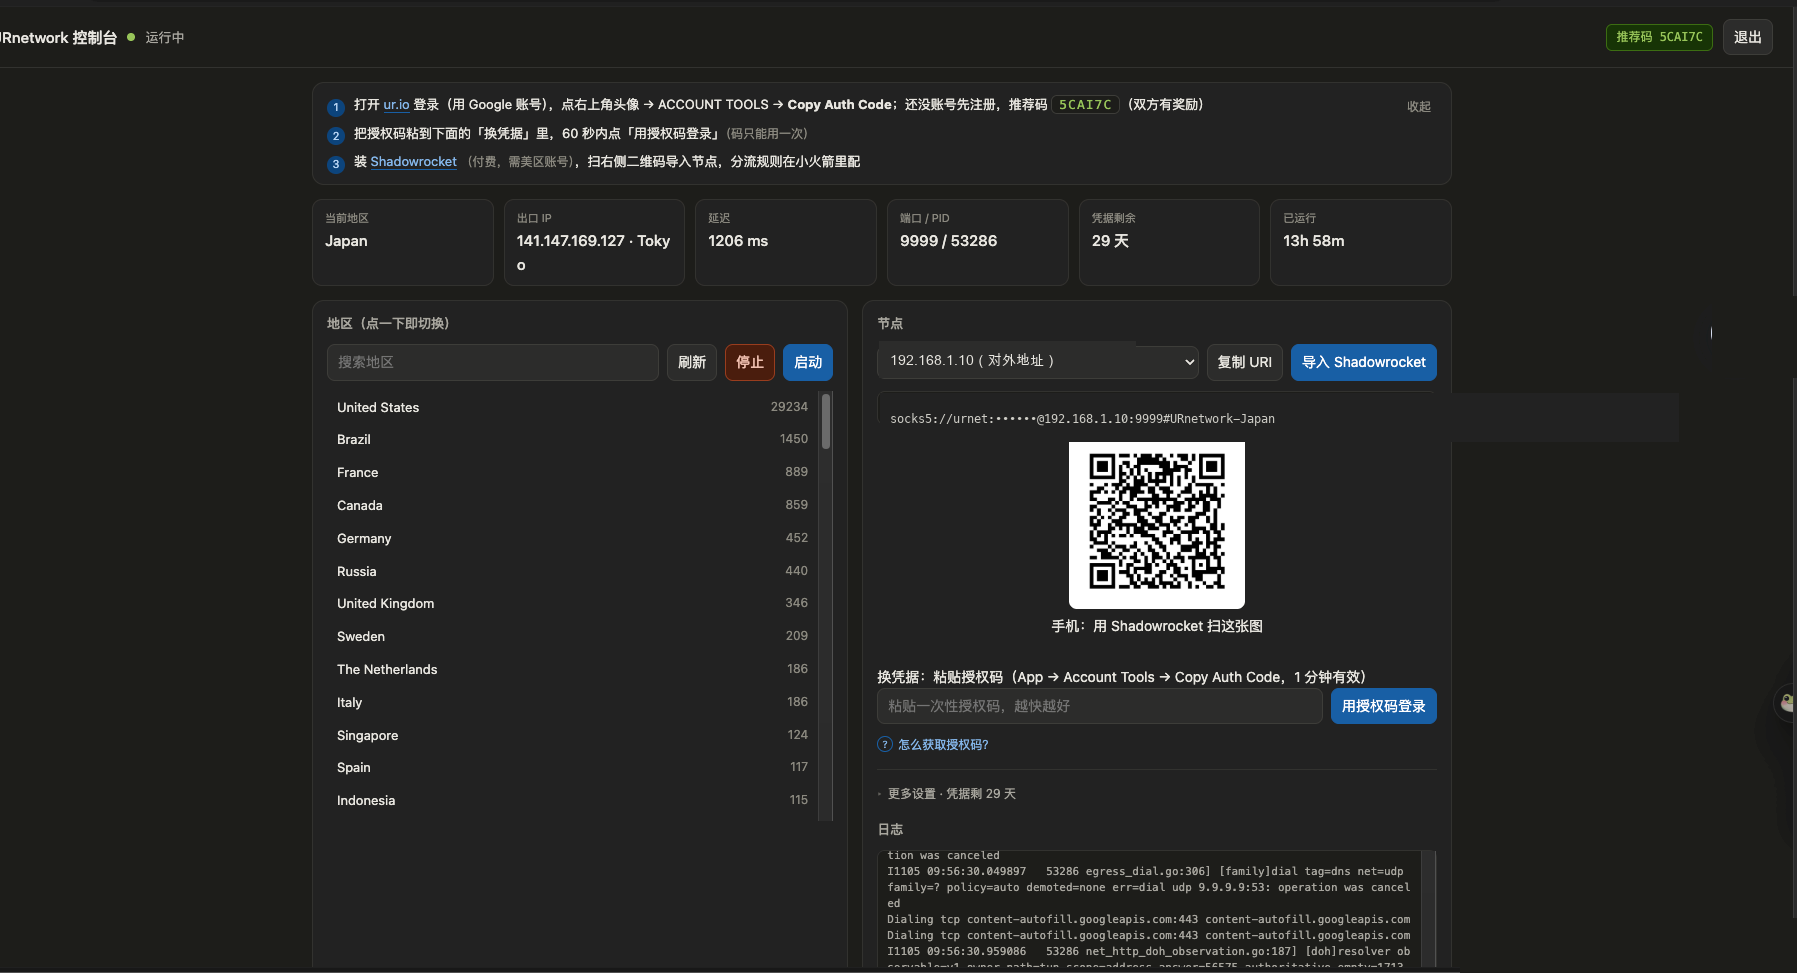
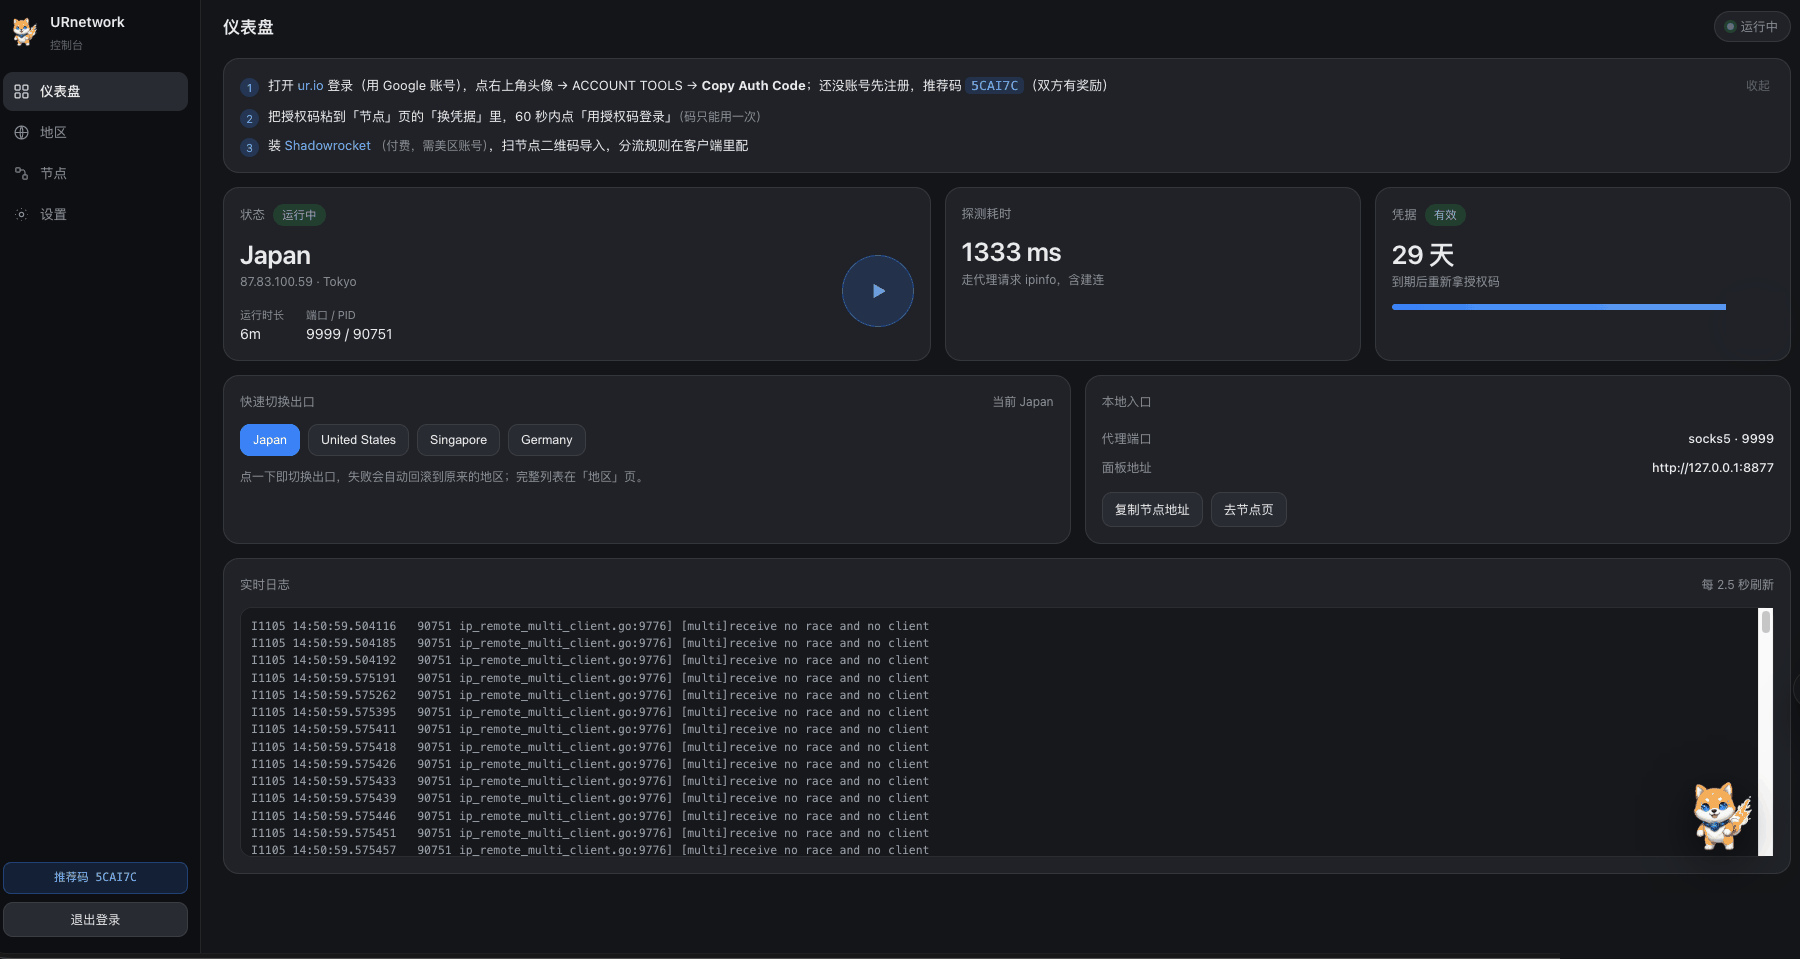
docs: 换成新界面的实际截图（仪表盘 / 地区 / 节点）
截图已脱敏：socks 密码打点、内网 IP 换占位、二维码打码、账号头像与截图工具水印抹掉。

diff --git a/README.md b/README.md
@@ -151,15 +151,27 @@ urnetd token                 # 看还剩几天
 
 ## 面板长什么样
 
-![控制台](docs/img/panel.png)
+左侧栏切换四个视图：仪表盘 / 地区 / 节点 / 设置，右下角还有个可拖拽的 Volt 悬浮球。
 
-左侧地区列表（带在线出口数，可搜索），右侧节点卡片：
+### 仪表盘
 
-- 顶部状态条：当前地区、出口 IP、探测耗时、端口/PID、凭据剩余天数、已运行时长
-- 节点卡片：地址下拉、复制 URI、导入 Shadowrocket / Clash Verge / FlClash、二维码
-- 「换凭据」：授权码输入框 + 「怎么获取授权码？」折叠说明
-- 「更多设置」：对外地址、JWT 直填、账号密码登录、停止服务
-- 底部日志：桥接进程的实时输出
+![仪表盘](docs/img/panel.png)
+
+一张状态大卡（当前地区、真实出口 IP、运行时长、端口/PID，右侧圆钮一键启停）+
+探测耗时 + 凭据剩余天数与进度条 + 快速切换出口 + 本地入口 + 实时日志。
+
+### 地区
+
+![地区](docs/img/panel-regions.png)
+
+带在线出口数、可搜索；点一下即切换到该地区，失败会自动回滚，完整列表两列排布。
+
+### 节点
+
+![节点](docs/img/panel-node.png)
+
+地址下拉、复制 URI、三个一键导入、二维码；「换凭据」直接粘授权码，
+下面折叠着「怎么获取授权码？」的图文说明。悬浮球点开是快捷面板（状态 / 启停 / 去节点）。
 
 点「导入 Shadowrocket」之后，节点会直接出现在小火箭里（SOCKS5 / UDP）：
 
